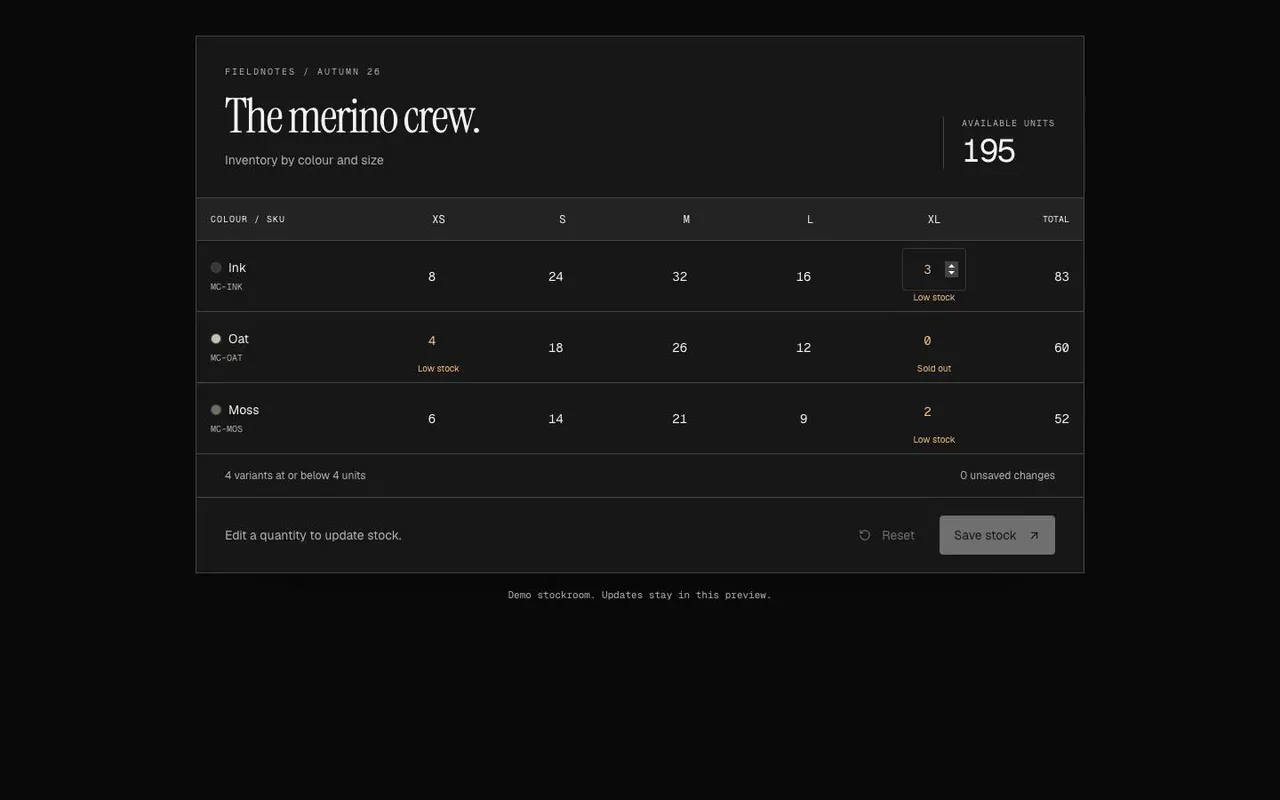
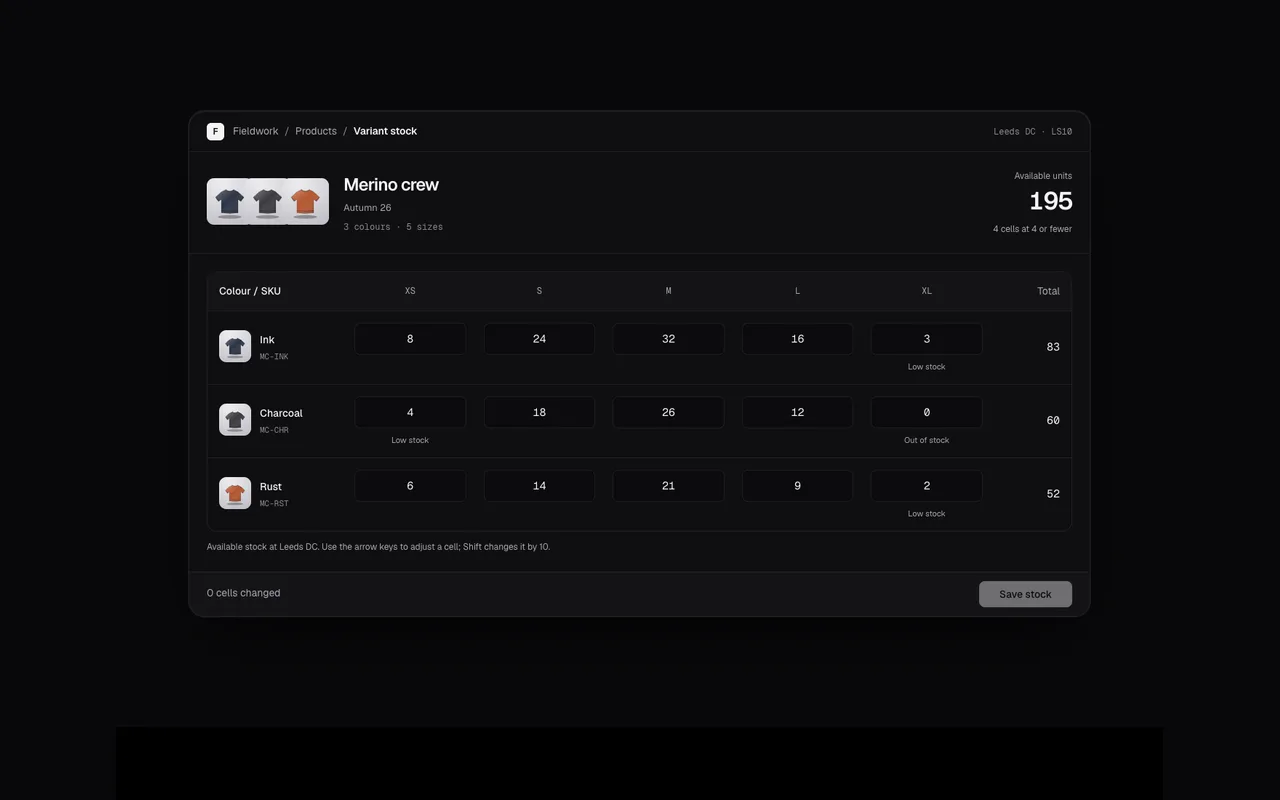
Verify Variant Stock workflows and responsive inventory previews

diff --git a/docs/review/HANDOFF_TASKS.md b/docs/review/HANDOFF_TASKS.md
@@ -227,6 +227,8 @@ and how to know it's done. Pick any of them up independently. Background, briefs
 
 - Task 4 follow-up: retiring feedback in Promotion Builder, Purchase Order, Fulfilment Desk and Return Desk now becomes inert and leaves the accessibility tree immediately. Stock’s rapid failure/retry/save/edit sequence exposed two simultaneous alerts. The rewritten Stock candidate and Return Desk now verify that earlier failures retire after acknowledgement. Both Next regressions, all five focused component audits, strict registry, TypeScript and all 1,063 unit tests pass.
 
+- Task 7: Variant Stock is rebuilt around product colourways, an editable size matrix and an exact changed-cell ledger. Its 29-mount source review and rewritten Next regression cover keyboard bounds, failed retry, pending locks, retained baselines, host mutation, raw ids and retired catalogues. Phone metadata stays readable; row totals sit beneath sticky identities so the last size remains clickable, and footer actions wrap inside their padding. Both-theme accessibility, six widths, entrance/state captures, touch targets, three preview controls, official audit and the complete 1,100px replay/poster pass, with strict registry, TypeScript and all 1,063 unit tests. Earlier failure alerts retire immediately after acknowledgement. Its new film joins task 1; 34 components and 12 blocks remain in task 7.
+
 ## Ground rules (read first)
 
 - Two repos. Public: `richawo/Design-components-for-AI-agents` (this one). Pro: `richawo/Design-for-AI`, private, cloned
@@ -244,7 +246,7 @@ and how to know it's done. Pick any of them up independently. Background, briefs
 - Browser checks: `node scripts/check-component.mjs <slug> --base=http://localhost:3100 --no-video --keep-going`
   (screenshots at 1440/768/390 and every control flip; read the screenshots it writes to `test-results/check/<slug>/`).
 
-## 1. Re-record demo videos (120 components)
+## 1. Re-record demo videos (121 components)
 
 Every rebuilt component's poster is current but its catalogue film (`public/previews/<slug>.mp4`) still shows the old
 version. Record them one at a time on an otherwise idle machine; the recorder rejects frame stalls under load.
@@ -263,6 +265,7 @@ slug or per small group). Notes:
 
 Slugs:
 
+`commerce-variant-stock`
 `editor-font-pairing`, `editor-keyframe-track`
 `editor-layer-stack`, `editor-spacing-inspector`, `editor-storyboard-strip`, `editor-version-restore`
 `three-exploded-assembly`, `three-material-inspector`, `agents-budget-guard`, `agents-dependency-board`
@@ -392,16 +395,15 @@ All nine parked rebuilds are shipped in both repos. Their original `_wip/<slug>`
 | finance-budget-variance | Completed 17 October: Next probe, dark/light accessibility, responsive and entrance/state captures, live demo and refreshed poster pass. |
 | finance-cashflow-dashboard | Completed 17 October: weekly balance and in/out bars, movable payments, independent pending saves, invalid-data guards, selected-week list geometry, Next probe/demo, both-theme accessibility, responsive/state/entrance captures and refreshed poster pass. |
 
-## 7. Continue the review (35 components, then 12 blocks)
+## 7. Continue the review (34 components, then 12 blocks)
 
-Same process as the 163 already done: hold each to the first ~100 components' standard. Briefs:
+Same process as the 164 already done: hold each to the first ~100 components' standard. Briefs:
 `docs/review/REVIEW_BRIEF.md`, `docs/review/SUITE_BRIEF.md` for industry components, suite languages in
 `docs/review/suites/`. Work newest first, about four components per batch, and verify each (build, tsc, tests,
 check-component, your own captures of states and mid-entrance frames, a refreshed poster, a rewritten pro-50 probe for
 industry components).
 
-- **Commerce** (copy `suites/commerce.md`): commerce-variant-stock,
-  commerce-catalog-import. `block-commerce-workspace` imports commerce-return-desk: keep its call site working.
+- **Commerce** (copy `suites/commerce.md`): commerce-catalog-import. `block-commerce-workspace` imports commerce-return-desk: keep its call site working.
 - **Others**: app-permission-matrix, legal-version-history (`suites/legal.md`), hr-capacity-planner (`suites/hr.md`),
   data-query-builder.
 - **Smaller components** (#151–179): chart-waterfall-bridge, content-release-notes, cards-event-ticket,

diff --git a/docs/review/STATUS.md b/docs/review/STATUS.md
@@ -1,6 +1,6 @@
 # Review status
 
-163 components are rebuilt (or, for a few, polished), verified and committed. For each: whether its demo video
+164 components are rebuilt (or, for a few, polished), verified and committed. For each: whether its demo video
 needs re-recording, whether its poster is current, and the state of its browser regression probe.
 
 - **Video**: `new` means `public/previews/<slug>.mp4` still shows the old version. Re-record serially on a quiet machine:
@@ -177,10 +177,11 @@ Measurements, checkout revisions and package diagnostics are recorded in
 | `fashion-size-guide` | new | current | source-fixture regression/demo, native palettes, both-theme accessibility and responsive/state/entrance captures pass |
 | `fashion-wholesale-order` | new | current | rewritten, passes |
 
-## Commerce suite (9)
+## Commerce suite (10)
 
 | Slug | Video | Poster | Probe |
 | --- | --- | --- | --- |
+| `commerce-variant-stock` | new | current | Rebuilt product matrix and changed-cell ledger; 29-mount source review, keyboard/exact-snapshot/retry/pending/mutation/revision Next regression, both-theme accessibility, six widths, entrance/state captures, 44px touch targets, three controls, official audit and full 1,100px replay/poster pass. Sticky phone totals keep the last size clickable; footer actions fit their padding and stale alerts retire. Strict registry, TypeScript and all 1,063 unit tests pass. |
 | `commerce-return-desk` | current | current | Rebuilt item ledger and return slip; 25-mount source review plus both-theme normal-motion phase guard, exact-amount/retry/pending/revision/retained-edit Next regression, Commerce Workspace integration, both-theme accessibility, six widths, entrance/state captures, 44px touch targets, two controls, official audit and complete 1,100px demo/poster pass. Strict registry, TypeScript and all 1,063 unit tests pass. Reviewed 6.0s selection/note/review/record film and paired poster are current. Retiring feedback is inert and leaves the accessibility tree immediately. |
 | `commerce-operations-dashboard` | current | current | Rebuilt revenue/flow/channel dashboard; 24-mount source review, Next exact-total/inspection/history/empty regression, full-month replay, both-theme accessibility, six widths, entrance/state captures, two controls and official audit pass. Measured 1,240px preview and refreshed poster retain the whole ledger; reviewed 3.2s Retail/month film and paired poster are current. |
 | `commerce-fulfilment-desk` | current | current | Rebuilt parcel/route/recovery workflow; 23-mount source review, Next retained-note/retry/pending/revision/empty regression, recorded-request replay, both-theme accessibility, six widths, entrance/state captures, two controls, official audit and measured full-frame poster pass; reviewed 5.7s recovery/note/review/record film and paired poster are current. Retiring feedback is inert and leaves the accessibility tree immediately. |
